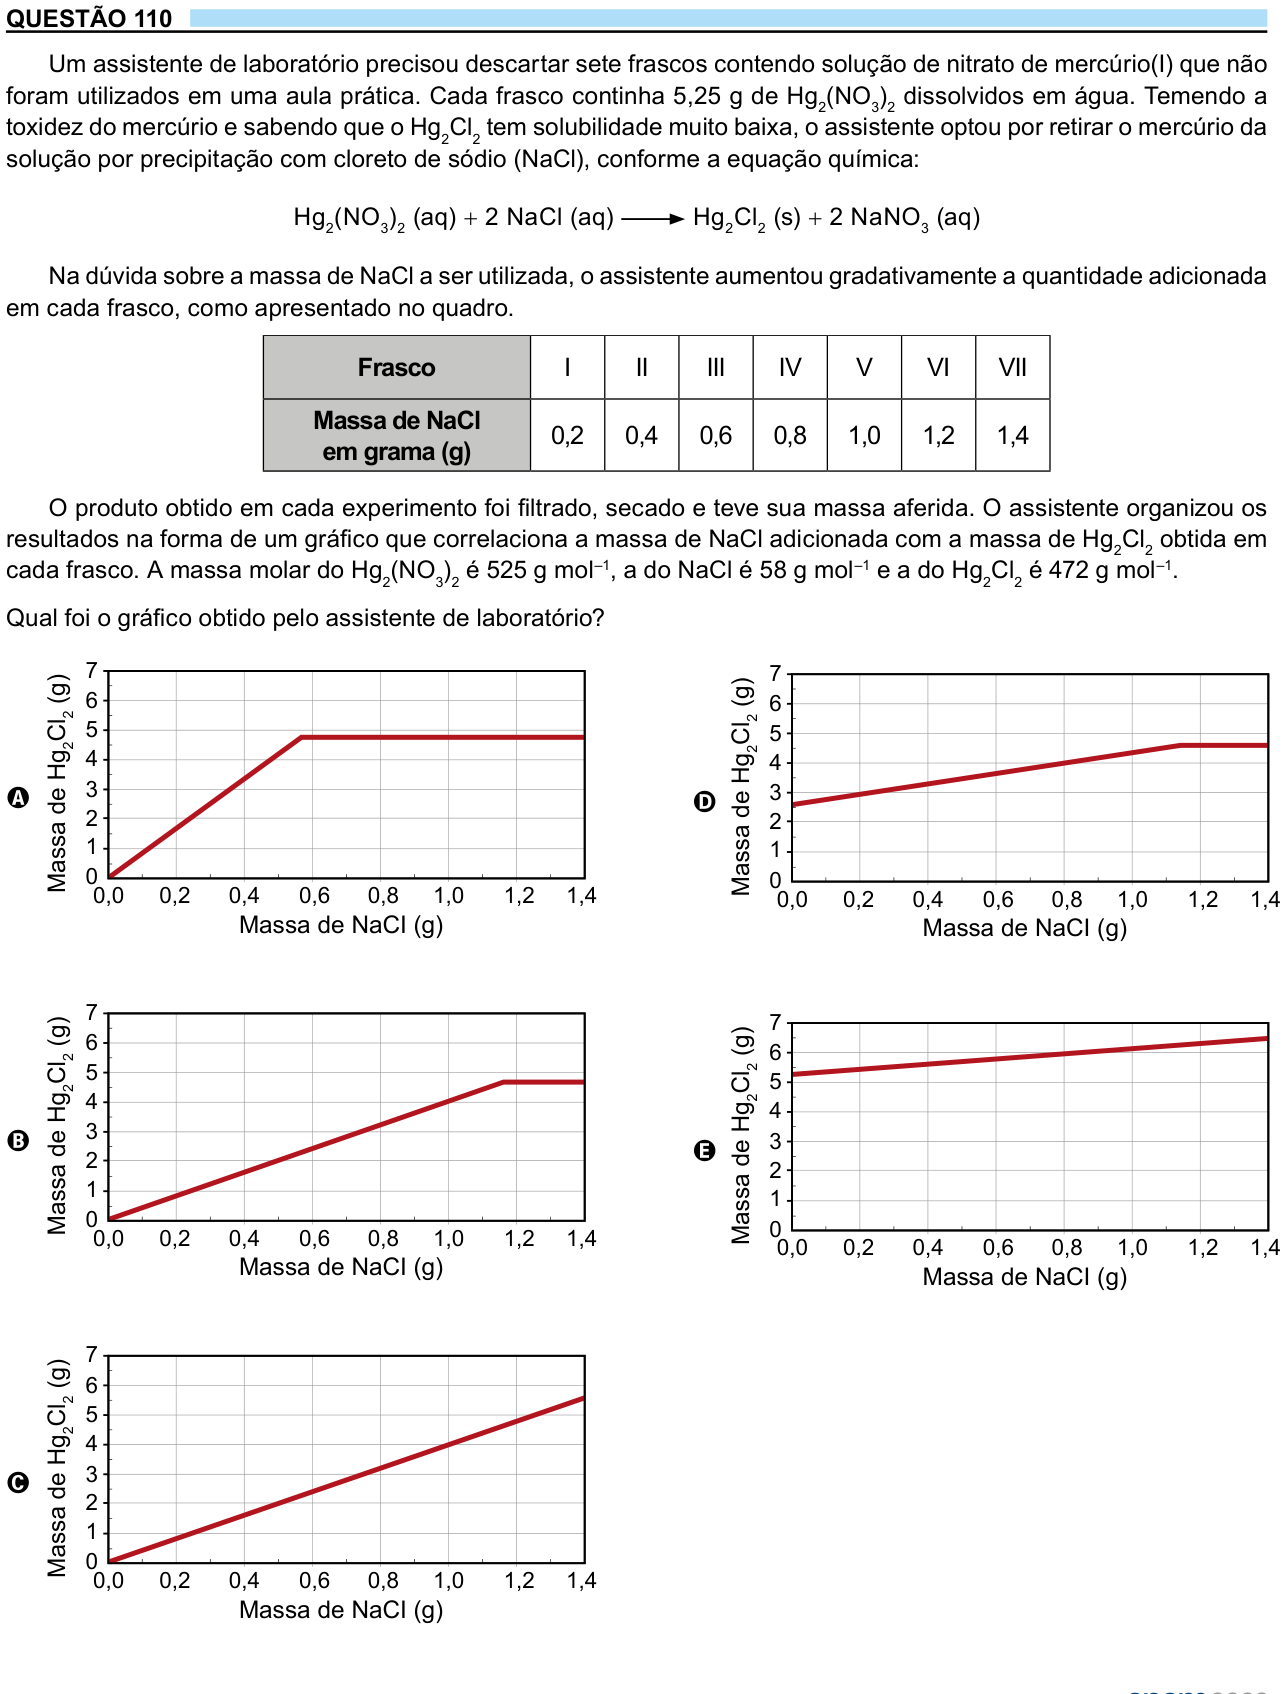
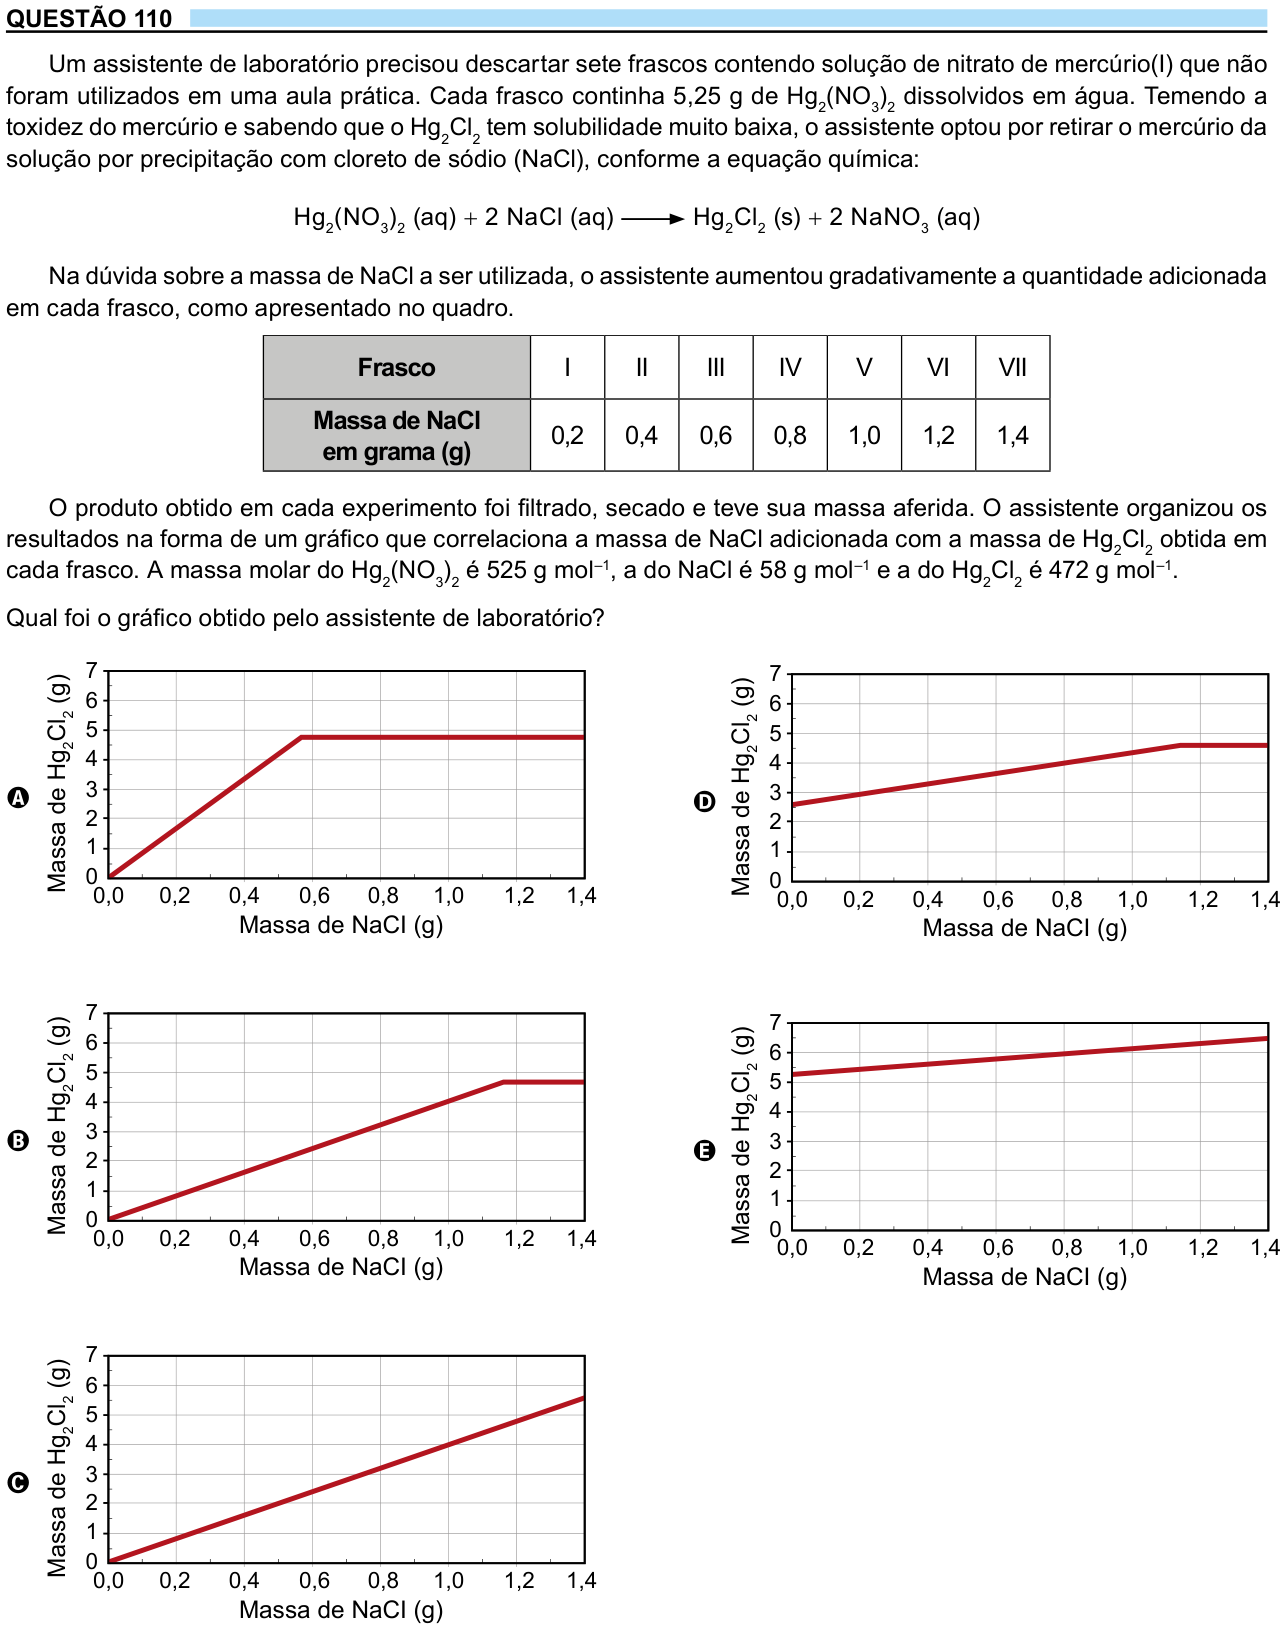
fix(enem): trim footer bleed from 3 more batch 08 source crops
Treat the caderno footer line and page number as page furniture, so the
isolated footer watermark fragment at the bottom of 2023 D2 Q110, Q127 and
Q140 source crops is trimmed instead of kept. Hashes and render metadata
updated; replay, presentation check, Node and Python suites pass; 509/509.

diff --git a/scripts/fix_clipped_crops.py b/scripts/fix_clipped_crops.py
@@ -82,7 +82,13 @@ def find_box(cands, qid, w, h):
     return None
 
 
-HEADER = re.compile(r"^\s*QUEST[ÃA]O\s*\d+", re.I)
+HEADER = re.compile(r"^\s*QUEST[ÃA]O\s*\d+|CADERNO\s*\d+\s*•\s*AZUL", re.I)
+PAGE_NO = re.compile(r"^\s*\d{1,3}\s*$")
+
+
+def furniture(text, y0):
+    """Cabeçalho de outra questão, rodapé de caderno ou número de página."""
+    return bool(HEADER.search(text)) or (y0 > 735 and bool(PAGE_NO.match(text)))
 
 
 def extend(page, b, skip_headers=False):
@@ -93,7 +99,7 @@ def extend(page, b, skip_headers=False):
         for ln in blk.get("lines", []):
             lx0, ly0, lx1, ly1 = ln["bbox"]
             ov = min(lx1, x1) - max(lx0, x0)
-            if skip_headers and HEADER.match("".join(sp["text"] for sp in ln["spans"])):
+            if skip_headers and furniture("".join(sp["text"] for sp in ln["spans"]), ly0):
                 continue
             if lx1 > lx0 and ov / (lx1 - lx0) >= 0.5:
                 lines.append((ly0, ly1))

diff --git a/scripts/fix_clipped_crops_batch08.py b/scripts/fix_clipped_crops_batch08.py
@@ -27,7 +27,7 @@ import pymupdf
 from PIL import Image
 
 sys.path.insert(0, str(Path(__file__).resolve().parent))
-from fix_clipped_crops import HEADER, ROOT, PAD, extend, load_pdfs  # noqa: E402
+from fix_clipped_crops import ROOT, PAD, extend, furniture, load_pdfs  # noqa: E402
 
 REPORT = ROOT / "data/audit/batch-08-review.json"
 INK = 200
@@ -101,7 +101,7 @@ def has_text(doc, r, y0px, y1px):
             lx0, ly0, lx1, ly1 = ln["bbox"]
             ov = min(lx1, x1) - max(lx0, x0)
             if lx1 > lx0 and ov / (lx1 - lx0) >= 0.5 and ly0 < b and ly1 > a and "".join(sp["text"] for sp in ln["spans"]).strip() \
-                    and not HEADER.match("".join(sp["text"] for sp in ln["spans"])):
+                    and not furniture("".join(sp["text"] for sp in ln["spans"]), ly0):
                 return True
     return False
 
